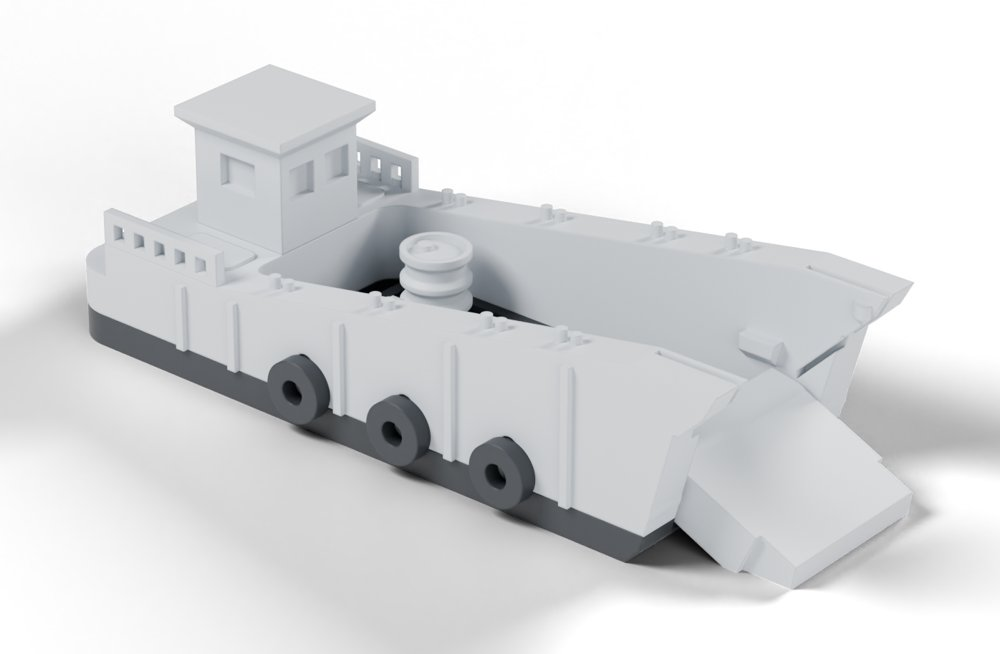
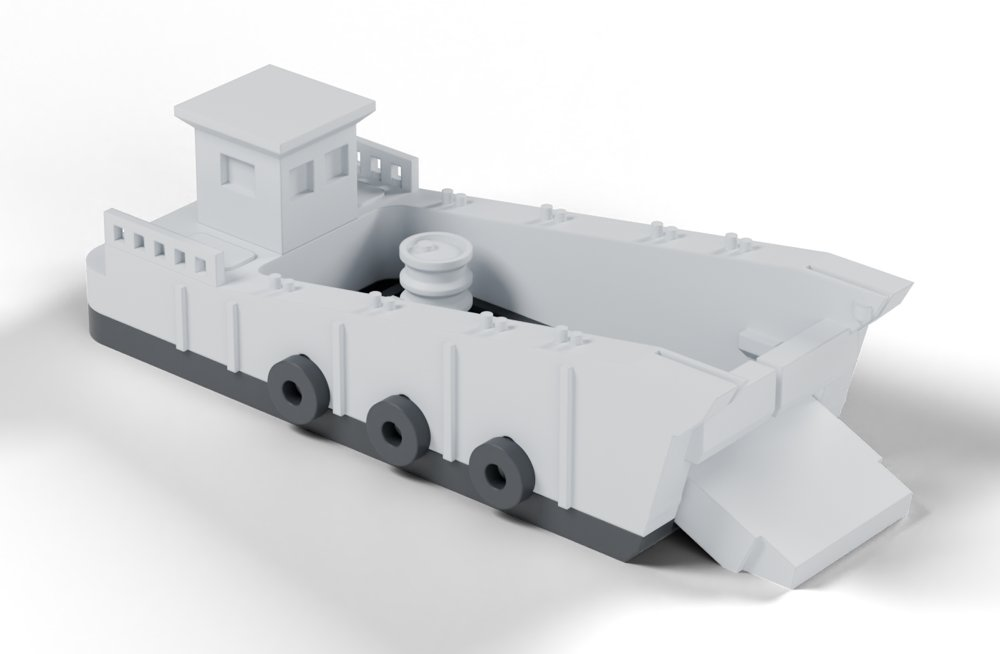
組裝教學:每頁加回艦艇列表、全部艦艇按鈕、其他艦艇快速切換;9 艘圖片更新為最新模型

Changed region(s): [[0.899, 0.7034, 1.0, 0.8257], [0.744, 0.5199, 0.868, 0.581]]

diff --git a/pgg625/index.html b/pgg625/index.html
@@ -8,6 +8,10 @@ main{max-width:720px;margin:0 auto;padding:16px}h1{margin:8px 0 0;font-size:30px
 .step img{width:100%;display:block}.tip{background:#fff;border-left:4px solid var(--gold);border-radius:8px;padding:10px 14px;margin:14px 0}
 .warn{background:#fff;border-radius:12px;padding:12px 16px;margin:18px 0}.warn h3{margin:0 0 6px;font-size:16px;color:#a8322a}.warn li{margin:2px 0}
 .grid{display:grid;grid-template-columns:repeat(auto-fill,minmax(150px,1fr));gap:12px}.grid a{display:block;background:#fff;border-radius:10px;padding:8px;text-decoration:none;color:var(--ink);text-align:center}
-.grid img{width:100%}.grid b{display:block;font-size:17px}footer{color:var(--mut);font-size:13px;text-align:center;padding:24px 16px}a{color:var(--navy2)}</style></head><body>
-<header><a href=".././"><img src="../img/logo.png" alt="千一工坊"></a><b>Q 版艦艇圖鑑・組裝教學</b></header><main><h1>PGG-625</h1><p class="sub">安江艦・巡邏艦・零件 9 件</p><img class="hero" src="../img/pgg625_hero.jpg" alt="安江艦"><div class="tip">組裝順序：照 A → B → C 袋依序拆開。零件對準卡榫，輕壓到「喀」一聲就固定了，不需要膠水或工具。</div><div class="step"><h2><span>01</span>A 袋｜船體壓上紅色艦底</h2><img src="../img/pgg625_step1.jpg" alt="A 袋｜船體壓上紅色艦底" loading="lazy"></div><div class="step"><h2><span>02</span>B 袋｜插上 4 支定位銷，上層結構壓上</h2><img src="../img/pgg625_step2.jpg" alt="B 袋｜插上 4 支定位銷，上層結構壓上" loading="lazy"></div><div class="step"><h2><span>03</span>C 袋｜駕駛台（含主桅）卡上</h2><img src="../img/pgg625_step3.jpg" alt="C 袋｜駕駛台（含主桅）卡上" loading="lazy"></div><div class="warn"><h3>注意事項</h3><ul><li>收藏模型・非玩具・14 歲以上</li><li>含小零件，請勿讓幼兒接觸，以免誤食</li><li>細件易斷，組裝時請輕壓，不要硬扳</li><li>PLA 怕熱，勿放高溫車內或陽光直射（超過 50°C 會變形）</li><li>3D 列印手工製品，表面細微層紋屬正常現象</li><li>非官方商品，與中華民國海軍無關</li></ul></div></main>
+.grid img{width:100%}.grid b{display:block;font-size:17px}
+.back{display:inline-flex;align-items:center;gap:6px;background:#fff;color:var(--navy);border:1.5px solid var(--navy);border-radius:999px;padding:8px 16px;font-size:16px;font-weight:600;text-decoration:none;margin:4px 0 8px}
+header .hb{margin-left:auto;color:#fff;border:1px solid #ffffff66;border-radius:999px;padding:6px 12px;font-size:14px;text-decoration:none;white-space:nowrap}
+.others h3{margin:22px 0 8px;font-size:17px}.chips{display:flex;flex-wrap:wrap;gap:8px}.chips a{background:#fff;border-radius:999px;padding:8px 14px;text-decoration:none;color:var(--ink);font-size:15px;box-shadow:0 1px 3px #0001}.chips a b{color:var(--navy2);margin-right:4px}
+footer{color:var(--mut);font-size:13px;text-align:center;padding:24px 16px}a{color:var(--navy2)}</style></head><body>
+<header><a href=".././"><img src="../img/logo.png" alt="千一工坊"></a><b>Q 版艦艇圖鑑・組裝教學</b><a class="hb" href="../">☰ 全部艦艇</a></header><main><a class="back" href="../">← 回艦艇列表</a><h1>PGG-625</h1><p class="sub">安江艦・巡邏艦・零件 9 件</p><img class="hero" src="../img/pgg625_hero.jpg" alt="安江艦"><div class="tip">組裝順序：照 A → B → C 袋依序拆開。零件對準卡榫，輕壓到「喀」一聲就固定了，不需要膠水或工具。</div><div class="step"><h2><span>01</span>A 袋｜船體壓上紅色艦底</h2><img src="../img/pgg625_step1.jpg" alt="A 袋｜船體壓上紅色艦底" loading="lazy"></div><div class="step"><h2><span>02</span>B 袋｜插上 4 支定位銷，上層結構壓上</h2><img src="../img/pgg625_step2.jpg" alt="B 袋｜插上 4 支定位銷，上層結構壓上" loading="lazy"></div><div class="step"><h2><span>03</span>C 袋｜駕駛台（含主桅）卡上</h2><img src="../img/pgg625_step3.jpg" alt="C 袋｜駕駛台（含主桅）卡上" loading="lazy"></div><div class="warn"><h3>注意事項</h3><ul><li>收藏模型・非玩具・14 歲以上</li><li>含小零件，請勿讓幼兒接觸，以免誤食</li><li>細件易斷，組裝時請輕壓，不要硬扳</li><li>PLA 怕熱，勿放高溫車內或陽光直射（超過 50°C 會變形）</li><li>3D 列印手工製品，表面細微層紋屬正常現象</li><li>非官方商品，與中華民國海軍無關</li></ul></div><div class="others"><h3>還有買其他艦艇？直接切換</h3><div class="chips"><a href="../lcm/"><b>LCM</b>機械化登陸艇</a><a href="../lcu/"><b>LCU</b>通用登陸艇</a><a href="../aoe530/"><b>AOE-530</b>武夷艦</a><a href="../aoe532/"><b>AOE-532</b>磐石艦</a><a href="../pfg1101/"><b>PFG-1101</b>成功艦</a><a href="../pfg1206/"><b>PFG-1206</b>迪化艦</a><a href="../lcc1/"><b>LCC-1</b>高雄艦</a><a href="../lst231/"><b>LST-231</b>中業艦</a></div></div><p><a class="back" href="../">← 回艦艇列表</a></p></main>
 <footer>零件有缺或斷掉，拍照私訊 IG <a href="https://www.instagram.com/qianyi.minis/">@qianyi.minis</a>，免費補寄<br>© 千一工坊 QIANYI MINIS</footer></body></html>

diff --git a/aoe530/index.html b/aoe530/index.html
@@ -8,6 +8,10 @@ main{max-width:720px;margin:0 auto;padding:16px}h1{margin:8px 0 0;font-size:30px
 .step img{width:100%;display:block}.tip{background:#fff;border-left:4px solid var(--gold);border-radius:8px;padding:10px 14px;margin:14px 0}
 .warn{background:#fff;border-radius:12px;padding:12px 16px;margin:18px 0}.warn h3{margin:0 0 6px;font-size:16px;color:#a8322a}.warn li{margin:2px 0}
 .grid{display:grid;grid-template-columns:repeat(auto-fill,minmax(150px,1fr));gap:12px}.grid a{display:block;background:#fff;border-radius:10px;padding:8px;text-decoration:none;color:var(--ink);text-align:center}
-.grid img{width:100%}.grid b{display:block;font-size:17px}footer{color:var(--mut);font-size:13px;text-align:center;padding:24px 16px}a{color:var(--navy2)}</style></head><body>
-<header><a href=".././"><img src="../img/logo.png" alt="千一工坊"></a><b>Q 版艦艇圖鑑・組裝教學</b></header><main><h1>AOE-530</h1><p class="sub">武夷艦・戰鬥支援艦・零件 9 件</p><img class="hero" src="../img/aoe530_hero.jpg" alt="武夷艦"><div class="tip">組裝順序：照 A → B → C 袋依序拆開。零件對準卡榫，輕壓到「喀」一聲就固定了，不需要膠水或工具。</div><div class="step"><h2><span>01</span>A 袋｜船體壓上船底</h2><img src="../img/aoe530_step1.jpg" alt="A 袋｜船體壓上船底" loading="lazy"></div><div class="step"><h2><span>02</span>B 袋｜艦橋、煙囪卡上</h2><img src="../img/aoe530_step2.jpg" alt="B 袋｜艦橋、煙囪卡上" loading="lazy"></div><div class="step"><h2><span>03</span>C 袋｜補給門架（含油管）、桅杆裝上</h2><img src="../img/aoe530_step3.jpg" alt="C 袋｜補給門架（含油管）、桅杆裝上" loading="lazy"></div><div class="warn"><h3>注意事項</h3><ul><li>收藏模型・非玩具・14 歲以上</li><li>含小零件，請勿讓幼兒接觸，以免誤食</li><li>細件易斷，組裝時請輕壓，不要硬扳</li><li>PLA 怕熱，勿放高溫車內或陽光直射（超過 50°C 會變形）</li><li>3D 列印手工製品，表面細微層紋屬正常現象</li><li>非官方商品，與中華民國海軍無關</li></ul></div></main>
+.grid img{width:100%}.grid b{display:block;font-size:17px}
+.back{display:inline-flex;align-items:center;gap:6px;background:#fff;color:var(--navy);border:1.5px solid var(--navy);border-radius:999px;padding:8px 16px;font-size:16px;font-weight:600;text-decoration:none;margin:4px 0 8px}
+header .hb{margin-left:auto;color:#fff;border:1px solid #ffffff66;border-radius:999px;padding:6px 12px;font-size:14px;text-decoration:none;white-space:nowrap}
+.others h3{margin:22px 0 8px;font-size:17px}.chips{display:flex;flex-wrap:wrap;gap:8px}.chips a{background:#fff;border-radius:999px;padding:8px 14px;text-decoration:none;color:var(--ink);font-size:15px;box-shadow:0 1px 3px #0001}.chips a b{color:var(--navy2);margin-right:4px}
+footer{color:var(--mut);font-size:13px;text-align:center;padding:24px 16px}a{color:var(--navy2)}</style></head><body>
+<header><a href=".././"><img src="../img/logo.png" alt="千一工坊"></a><b>Q 版艦艇圖鑑・組裝教學</b><a class="hb" href="../">☰ 全部艦艇</a></header><main><a class="back" href="../">← 回艦艇列表</a><h1>AOE-530</h1><p class="sub">武夷艦・戰鬥支援艦・零件 9 件</p><img class="hero" src="../img/aoe530_hero.jpg" alt="武夷艦"><div class="tip">組裝順序：照 A → B → C 袋依序拆開。零件對準卡榫，輕壓到「喀」一聲就固定了，不需要膠水或工具。</div><div class="step"><h2><span>01</span>A 袋｜船體壓上船底</h2><img src="../img/aoe530_step1.jpg" alt="A 袋｜船體壓上船底" loading="lazy"></div><div class="step"><h2><span>02</span>B 袋｜艦橋、煙囪卡上</h2><img src="../img/aoe530_step2.jpg" alt="B 袋｜艦橋、煙囪卡上" loading="lazy"></div><div class="step"><h2><span>03</span>C 袋｜補給門架（含油管）、桅杆裝上</h2><img src="../img/aoe530_step3.jpg" alt="C 袋｜補給門架（含油管）、桅杆裝上" loading="lazy"></div><div class="warn"><h3>注意事項</h3><ul><li>收藏模型・非玩具・14 歲以上</li><li>含小零件，請勿讓幼兒接觸，以免誤食</li><li>細件易斷，組裝時請輕壓，不要硬扳</li><li>PLA 怕熱，勿放高溫車內或陽光直射（超過 50°C 會變形）</li><li>3D 列印手工製品，表面細微層紋屬正常現象</li><li>非官方商品，與中華民國海軍無關</li></ul></div><div class="others"><h3>還有買其他艦艇？直接切換</h3><div class="chips"><a href="../lcm/"><b>LCM</b>機械化登陸艇</a><a href="../lcu/"><b>LCU</b>通用登陸艇</a><a href="../aoe532/"><b>AOE-532</b>磐石艦</a><a href="../pfg1101/"><b>PFG-1101</b>成功艦</a><a href="../pfg1206/"><b>PFG-1206</b>迪化艦</a><a href="../pgg625/"><b>PGG-625</b>安江艦</a><a href="../lcc1/"><b>LCC-1</b>高雄艦</a><a href="../lst231/"><b>LST-231</b>中業艦</a></div></div><p><a class="back" href="../">← 回艦艇列表</a></p></main>
 <footer>零件有缺或斷掉，拍照私訊 IG <a href="https://www.instagram.com/qianyi.minis/">@qianyi.minis</a>，免費補寄<br>© 千一工坊 QIANYI MINIS</footer></body></html>

diff --git a/pfg1101/index.html b/pfg1101/index.html
@@ -8,6 +8,10 @@ main{max-width:720px;margin:0 auto;padding:16px}h1{margin:8px 0 0;font-size:30px
 .step img{width:100%;display:block}.tip{background:#fff;border-left:4px solid var(--gold);border-radius:8px;padding:10px 14px;margin:14px 0}
 .warn{background:#fff;border-radius:12px;padding:12px 16px;margin:18px 0}.warn h3{margin:0 0 6px;font-size:16px;color:#a8322a}.warn li{margin:2px 0}
 .grid{display:grid;grid-template-columns:repeat(auto-fill,minmax(150px,1fr));gap:12px}.grid a{display:block;background:#fff;border-radius:10px;padding:8px;text-decoration:none;color:var(--ink);text-align:center}
-.grid img{width:100%}.grid b{display:block;font-size:17px}footer{color:var(--mut);font-size:13px;text-align:center;padding:24px 16px}a{color:var(--navy2)}</style></head><body>
-<header><a href=".././"><img src="../img/logo.png" alt="千一工坊"></a><b>Q 版艦艇圖鑑・組裝教學</b></header><main><h1>PFG-1101</h1><p class="sub">成功艦・巡防艦・零件 6 件</p><img class="hero" src="../img/pfg1101_hero.jpg" alt="成功艦"><div class="tip">組裝順序：照 A → B → C 袋依序拆開。零件對準卡榫，輕壓到「喀」一聲就固定了，不需要膠水或工具。</div><div class="step"><h2><span>01</span>A 袋｜船體壓上紅色艦底</h2><img src="../img/pfg1101_step1.jpg" alt="A 袋｜船體壓上紅色艦底" loading="lazy"></div><div class="step"><h2><span>02</span>B 袋｜駕駛台卡上</h2><img src="../img/pfg1101_step2.jpg" alt="B 袋｜駕駛台卡上" loading="lazy"></div><div class="step"><h2><span>03</span>C 袋｜Mk13 飛彈架、主桅、前桅裝上</h2><img src="../img/pfg1101_step3.jpg" alt="C 袋｜Mk13 飛彈架、主桅、前桅裝上" loading="lazy"></div><div class="warn"><h3>注意事項</h3><ul><li>收藏模型・非玩具・14 歲以上</li><li>含小零件，請勿讓幼兒接觸，以免誤食</li><li>細件易斷，組裝時請輕壓，不要硬扳</li><li>PLA 怕熱，勿放高溫車內或陽光直射（超過 50°C 會變形）</li><li>3D 列印手工製品，表面細微層紋屬正常現象</li><li>非官方商品，與中華民國海軍無關</li></ul></div></main>
+.grid img{width:100%}.grid b{display:block;font-size:17px}
+.back{display:inline-flex;align-items:center;gap:6px;background:#fff;color:var(--navy);border:1.5px solid var(--navy);border-radius:999px;padding:8px 16px;font-size:16px;font-weight:600;text-decoration:none;margin:4px 0 8px}
+header .hb{margin-left:auto;color:#fff;border:1px solid #ffffff66;border-radius:999px;padding:6px 12px;font-size:14px;text-decoration:none;white-space:nowrap}
+.others h3{margin:22px 0 8px;font-size:17px}.chips{display:flex;flex-wrap:wrap;gap:8px}.chips a{background:#fff;border-radius:999px;padding:8px 14px;text-decoration:none;color:var(--ink);font-size:15px;box-shadow:0 1px 3px #0001}.chips a b{color:var(--navy2);margin-right:4px}
+footer{color:var(--mut);font-size:13px;text-align:center;padding:24px 16px}a{color:var(--navy2)}</style></head><body>
+<header><a href=".././"><img src="../img/logo.png" alt="千一工坊"></a><b>Q 版艦艇圖鑑・組裝教學</b><a class="hb" href="../">☰ 全部艦艇</a></header><main><a class="back" href="../">← 回艦艇列表</a><h1>PFG-1101</h1><p class="sub">成功艦・巡防艦・零件 7 件</p><img class="hero" src="../img/pfg1101_hero.jpg" alt="成功艦"><div class="tip">組裝順序：照 A → B → C 袋依序拆開。零件對準卡榫，輕壓到「喀」一聲就固定了，不需要膠水或工具。</div><div class="step"><h2><span>01</span>A 袋｜船體壓上紅色艦底</h2><img src="../img/pfg1101_step1.jpg" alt="A 袋｜船體壓上紅色艦底" loading="lazy"></div><div class="step"><h2><span>02</span>B 袋｜駕駛台卡上</h2><img src="../img/pfg1101_step2.jpg" alt="B 袋｜駕駛台卡上" loading="lazy"></div><div class="step"><h2><span>03</span>C 袋｜Mk13 飛彈架、主桅、前桅裝上</h2><img src="../img/pfg1101_step3.jpg" alt="C 袋｜Mk13 飛彈架、主桅、前桅裝上" loading="lazy"></div><div class="warn"><h3>注意事項</h3><ul><li>收藏模型・非玩具・14 歲以上</li><li>含小零件，請勿讓幼兒接觸，以免誤食</li><li>細件易斷，組裝時請輕壓，不要硬扳</li><li>PLA 怕熱，勿放高溫車內或陽光直射（超過 50°C 會變形）</li><li>3D 列印手工製品，表面細微層紋屬正常現象</li><li>非官方商品，與中華民國海軍無關</li></ul></div><div class="others"><h3>還有買其他艦艇？直接切換</h3><div class="chips"><a href="../lcm/"><b>LCM</b>機械化登陸艇</a><a href="../lcu/"><b>LCU</b>通用登陸艇</a><a href="../aoe530/"><b>AOE-530</b>武夷艦</a><a href="../aoe532/"><b>AOE-532</b>磐石艦</a><a href="../pfg1206/"><b>PFG-1206</b>迪化艦</a><a href="../pgg625/"><b>PGG-625</b>安江艦</a><a href="../lcc1/"><b>LCC-1</b>高雄艦</a><a href="../lst231/"><b>LST-231</b>中業艦</a></div></div><p><a class="back" href="../">← 回艦艇列表</a></p></main>
 <footer>零件有缺或斷掉，拍照私訊 IG <a href="https://www.instagram.com/qianyi.minis/">@qianyi.minis</a>，免費補寄<br>© 千一工坊 QIANYI MINIS</footer></body></html>

diff --git a/aoe532/index.html b/aoe532/index.html
@@ -8,6 +8,10 @@ main{max-width:720px;margin:0 auto;padding:16px}h1{margin:8px 0 0;font-size:30px
 .step img{width:100%;display:block}.tip{background:#fff;border-left:4px solid var(--gold);border-radius:8px;padding:10px 14px;margin:14px 0}
 .warn{background:#fff;border-radius:12px;padding:12px 16px;margin:18px 0}.warn h3{margin:0 0 6px;font-size:16px;color:#a8322a}.warn li{margin:2px 0}
 .grid{display:grid;grid-template-columns:repeat(auto-fill,minmax(150px,1fr));gap:12px}.grid a{display:block;background:#fff;border-radius:10px;padding:8px;text-decoration:none;color:var(--ink);text-align:center}
-.grid img{width:100%}.grid b{display:block;font-size:17px}footer{color:var(--mut);font-size:13px;text-align:center;padding:24px 16px}a{color:var(--navy2)}</style></head><body>
-<header><a href=".././"><img src="../img/logo.png" alt="千一工坊"></a><b>Q 版艦艇圖鑑・組裝教學</b></header><main><h1>AOE-532</h1><p class="sub">磐石艦・戰鬥支援艦・零件 8 件</p><img class="hero" src="../img/aoe532_hero.jpg" alt="磐石艦"><div class="tip">組裝順序：照 A → B → C 袋依序拆開。零件對準卡榫，輕壓到「喀」一聲就固定了，不需要膠水或工具。</div><div class="step"><h2><span>01</span>A 袋｜船體壓上船底</h2><img src="../img/aoe532_step1.jpg" alt="A 袋｜船體壓上船底" loading="lazy"></div><div class="step"><h2><span>02</span>B 袋｜上層結構卡上</h2><img src="../img/aoe532_step2.jpg" alt="B 袋｜上層結構卡上" loading="lazy"></div><div class="step"><h2><span>03</span>C 袋｜油管、補給門架裝上</h2><img src="../img/aoe532_step3.jpg" alt="C 袋｜油管、補給門架裝上" loading="lazy"></div><div class="warn"><h3>注意事項</h3><ul><li>收藏模型・非玩具・14 歲以上</li><li>含小零件，請勿讓幼兒接觸，以免誤食</li><li>細件易斷，組裝時請輕壓，不要硬扳</li><li>PLA 怕熱，勿放高溫車內或陽光直射（超過 50°C 會變形）</li><li>3D 列印手工製品，表面細微層紋屬正常現象</li><li>非官方商品，與中華民國海軍無關</li></ul></div></main>
+.grid img{width:100%}.grid b{display:block;font-size:17px}
+.back{display:inline-flex;align-items:center;gap:6px;background:#fff;color:var(--navy);border:1.5px solid var(--navy);border-radius:999px;padding:8px 16px;font-size:16px;font-weight:600;text-decoration:none;margin:4px 0 8px}
+header .hb{margin-left:auto;color:#fff;border:1px solid #ffffff66;border-radius:999px;padding:6px 12px;font-size:14px;text-decoration:none;white-space:nowrap}
+.others h3{margin:22px 0 8px;font-size:17px}.chips{display:flex;flex-wrap:wrap;gap:8px}.chips a{background:#fff;border-radius:999px;padding:8px 14px;text-decoration:none;color:var(--ink);font-size:15px;box-shadow:0 1px 3px #0001}.chips a b{color:var(--navy2);margin-right:4px}
+footer{color:var(--mut);font-size:13px;text-align:center;padding:24px 16px}a{color:var(--navy2)}</style></head><body>
+<header><a href=".././"><img src="../img/logo.png" alt="千一工坊"></a><b>Q 版艦艇圖鑑・組裝教學</b><a class="hb" href="../">☰ 全部艦艇</a></header><main><a class="back" href="../">← 回艦艇列表</a><h1>AOE-532</h1><p class="sub">磐石艦・戰鬥支援艦・零件 8 件</p><img class="hero" src="../img/aoe532_hero.jpg" alt="磐石艦"><div class="tip">組裝順序：照 A → B → C 袋依序拆開。零件對準卡榫，輕壓到「喀」一聲就固定了，不需要膠水或工具。</div><div class="step"><h2><span>01</span>A 袋｜船體壓上船底</h2><img src="../img/aoe532_step1.jpg" alt="A 袋｜船體壓上船底" loading="lazy"></div><div class="step"><h2><span>02</span>B 袋｜上層結構卡上</h2><img src="../img/aoe532_step2.jpg" alt="B 袋｜上層結構卡上" loading="lazy"></div><div class="step"><h2><span>03</span>C 袋｜油管、補給門架裝上</h2><img src="../img/aoe532_step3.jpg" alt="C 袋｜油管、補給門架裝上" loading="lazy"></div><div class="warn"><h3>注意事項</h3><ul><li>收藏模型・非玩具・14 歲以上</li><li>含小零件，請勿讓幼兒接觸，以免誤食</li><li>細件易斷，組裝時請輕壓，不要硬扳</li><li>PLA 怕熱，勿放高溫車內或陽光直射（超過 50°C 會變形）</li><li>3D 列印手工製品，表面細微層紋屬正常現象</li><li>非官方商品，與中華民國海軍無關</li></ul></div><div class="others"><h3>還有買其他艦艇？直接切換</h3><div class="chips"><a href="../lcm/"><b>LCM</b>機械化登陸艇</a><a href="../lcu/"><b>LCU</b>通用登陸艇</a><a href="../aoe530/"><b>AOE-530</b>武夷艦</a><a href="../pfg1101/"><b>PFG-1101</b>成功艦</a><a href="../pfg1206/"><b>PFG-1206</b>迪化艦</a><a href="../pgg625/"><b>PGG-625</b>安江艦</a><a href="../lcc1/"><b>LCC-1</b>高雄艦</a><a href="../lst231/"><b>LST-231</b>中業艦</a></div></div><p><a class="back" href="../">← 回艦艇列表</a></p></main>
 <footer>零件有缺或斷掉，拍照私訊 IG <a href="https://www.instagram.com/qianyi.minis/">@qianyi.minis</a>，免費補寄<br>© 千一工坊 QIANYI MINIS</footer></body></html>

diff --git a/lcm/index.html b/lcm/index.html
@@ -8,6 +8,10 @@ main{max-width:720px;margin:0 auto;padding:16px}h1{margin:8px 0 0;font-size:30px
 .step img{width:100%;display:block}.tip{background:#fff;border-left:4px solid var(--gold);border-radius:8px;padding:10px 14px;margin:14px 0}
 .warn{background:#fff;border-radius:12px;padding:12px 16px;margin:18px 0}.warn h3{margin:0 0 6px;font-size:16px;color:#a8322a}.warn li{margin:2px 0}
 .grid{display:grid;grid-template-columns:repeat(auto-fill,minmax(150px,1fr));gap:12px}.grid a{display:block;background:#fff;border-radius:10px;padding:8px;text-decoration:none;color:var(--ink);text-align:center}
-.grid img{width:100%}.grid b{display:block;font-size:17px}footer{color:var(--mut);font-size:13px;text-align:center;padding:24px 16px}a{color:var(--navy2)}</style></head><body>
-<header><a href=".././"><img src="../img/logo.png" alt="千一工坊"></a><b>Q 版艦艇圖鑑・組裝教學</b></header><main><h1>LCM</h1><p class="sub">機械化登陸艇・登陸艇・零件 13 件</p><img class="hero" src="../img/lcm_hero.jpg" alt="機械化登陸艇"><div class="tip">組裝順序：照 A → B → C 袋依序拆開。輕推艏門往下，跳板就會放下。</div><div class="step"><h2><span>01</span>A 袋｜船體壓上船底</h2><img src="../img/lcm_step1.jpg" alt="A 袋｜船體壓上船底" loading="lazy"></div><div class="step"><h2><span>02</span>B 袋｜駕駛台卡上船尾</h2><img src="../img/lcm_step2.jpg" alt="B 袋｜駕駛台卡上船尾" loading="lazy"></div><div class="step"><h2><span>03</span>C 袋｜輪胎、艏門裝上，油桶彈箱插上甲板</h2><img src="../img/lcm_step3.jpg" alt="C 袋｜輪胎、艏門裝上，油桶彈箱插上甲板" loading="lazy"></div><div class="warn"><h3>注意事項</h3><ul><li>收藏模型・非玩具・14 歲以上</li><li>含小零件，請勿讓幼兒接觸，以免誤食</li><li>細件易斷，組裝時請輕壓，不要硬扳</li><li>PLA 怕熱，勿放高溫車內或陽光直射（超過 50°C 會變形）</li><li>3D 列印手工製品，表面細微層紋屬正常現象</li><li>非官方商品，與中華民國海軍無關</li></ul></div></main>
+.grid img{width:100%}.grid b{display:block;font-size:17px}
+.back{display:inline-flex;align-items:center;gap:6px;background:#fff;color:var(--navy);border:1.5px solid var(--navy);border-radius:999px;padding:8px 16px;font-size:16px;font-weight:600;text-decoration:none;margin:4px 0 8px}
+header .hb{margin-left:auto;color:#fff;border:1px solid #ffffff66;border-radius:999px;padding:6px 12px;font-size:14px;text-decoration:none;white-space:nowrap}
+.others h3{margin:22px 0 8px;font-size:17px}.chips{display:flex;flex-wrap:wrap;gap:8px}.chips a{background:#fff;border-radius:999px;padding:8px 14px;text-decoration:none;color:var(--ink);font-size:15px;box-shadow:0 1px 3px #0001}.chips a b{color:var(--navy2);margin-right:4px}
+footer{color:var(--mut);font-size:13px;text-align:center;padding:24px 16px}a{color:var(--navy2)}</style></head><body>
+<header><a href=".././"><img src="../img/logo.png" alt="千一工坊"></a><b>Q 版艦艇圖鑑・組裝教學</b><a class="hb" href="../">☰ 全部艦艇</a></header><main><a class="back" href="../">← 回艦艇列表</a><h1>LCM</h1><p class="sub">機械化登陸艇・登陸艇・零件 13 件</p><img class="hero" src="../img/lcm_hero.jpg" alt="機械化登陸艇"><div class="tip">組裝順序：照 A → B → C 袋依序拆開。輕推艏門往下，跳板就會放下。</div><div class="step"><h2><span>01</span>A 袋｜船體壓上船底</h2><img src="../img/lcm_step1.jpg" alt="A 袋｜船體壓上船底" loading="lazy"></div><div class="step"><h2><span>02</span>B 袋｜駕駛台卡上船尾</h2><img src="../img/lcm_step2.jpg" alt="B 袋｜駕駛台卡上船尾" loading="lazy"></div><div class="step"><h2><span>03</span>C 袋｜輪胎、艏門裝上，油桶彈箱插上甲板</h2><img src="../img/lcm_step3.jpg" alt="C 袋｜輪胎、艏門裝上，油桶彈箱插上甲板" loading="lazy"></div><div class="warn"><h3>注意事項</h3><ul><li>收藏模型・非玩具・14 歲以上</li><li>含小零件，請勿讓幼兒接觸，以免誤食</li><li>細件易斷，組裝時請輕壓，不要硬扳</li><li>PLA 怕熱，勿放高溫車內或陽光直射（超過 50°C 會變形）</li><li>3D 列印手工製品，表面細微層紋屬正常現象</li><li>非官方商品，與中華民國海軍無關</li></ul></div><div class="others"><h3>還有買其他艦艇？直接切換</h3><div class="chips"><a href="../lcu/"><b>LCU</b>通用登陸艇</a><a href="../aoe530/"><b>AOE-530</b>武夷艦</a><a href="../aoe532/"><b>AOE-532</b>磐石艦</a><a href="../pfg1101/"><b>PFG-1101</b>成功艦</a><a href="../pfg1206/"><b>PFG-1206</b>迪化艦</a><a href="../pgg625/"><b>PGG-625</b>安江艦</a><a href="../lcc1/"><b>LCC-1</b>高雄艦</a><a href="../lst231/"><b>LST-231</b>中業艦</a></div></div><p><a class="back" href="../">← 回艦艇列表</a></p></main>
 <footer>零件有缺或斷掉，拍照私訊 IG <a href="https://www.instagram.com/qianyi.minis/">@qianyi.minis</a>，免費補寄<br>© 千一工坊 QIANYI MINIS</footer></body></html>

diff --git a/pfg1206/index.html b/pfg1206/index.html
@@ -8,6 +8,10 @@ main{max-width:720px;margin:0 auto;padding:16px}h1{margin:8px 0 0;font-size:30px
 .step img{width:100%;display:block}.tip{background:#fff;border-left:4px solid var(--gold);border-radius:8px;padding:10px 14px;margin:14px 0}
 .warn{background:#fff;border-radius:12px;padding:12px 16px;margin:18px 0}.warn h3{margin:0 0 6px;font-size:16px;color:#a8322a}.warn li{margin:2px 0}
 .grid{display:grid;grid-template-columns:repeat(auto-fill,minmax(150px,1fr));gap:12px}.grid a{display:block;background:#fff;border-radius:10px;padding:8px;text-decoration:none;color:var(--ink);text-align:center}
-.grid img{width:100%}.grid b{display:block;font-size:17px}footer{color:var(--mut);font-size:13px;text-align:center;padding:24px 16px}a{color:var(--navy2)}</style></head><body>
-<header><a href=".././"><img src="../img/logo.png" alt="千一工坊"></a><b>Q 版艦艇圖鑑・組裝教學</b></header><main><h1>PFG-1206</h1><p class="sub">迪化艦・巡防艦・零件 6 件</p><img class="hero" src="../img/pfg1206_hero.jpg" alt="迪化艦"><div class="tip">組裝順序：照 A → B → C 袋依序拆開。零件對準卡榫，輕壓到「喀」一聲就固定了，不需要膠水或工具。</div><div class="step"><h2><span>01</span>A 袋｜船體壓上紅色艦底</h2><img src="../img/pfg1206_step1.jpg" alt="A 袋｜船體壓上紅色艦底" loading="lazy"></div><div class="step"><h2><span>02</span>B 袋｜上層結構卡上</h2><img src="../img/pfg1206_step2.jpg" alt="B 袋｜上層結構卡上" loading="lazy"></div><div class="step"><h2><span>03</span>C 袋｜桅頂、雷達裝上</h2><img src="../img/pfg1206_step3.jpg" alt="C 袋｜桅頂、雷達裝上" loading="lazy"></div><div class="warn"><h3>注意事項</h3><ul><li>收藏模型・非玩具・14 歲以上</li><li>含小零件，請勿讓幼兒接觸，以免誤食</li><li>細件易斷，組裝時請輕壓，不要硬扳</li><li>PLA 怕熱，勿放高溫車內或陽光直射（超過 50°C 會變形）</li><li>3D 列印手工製品，表面細微層紋屬正常現象</li><li>非官方商品，與中華民國海軍無關</li></ul></div></main>
+.grid img{width:100%}.grid b{display:block;font-size:17px}
+.back{display:inline-flex;align-items:center;gap:6px;background:#fff;color:var(--navy);border:1.5px solid var(--navy);border-radius:999px;padding:8px 16px;font-size:16px;font-weight:600;text-decoration:none;margin:4px 0 8px}
+header .hb{margin-left:auto;color:#fff;border:1px solid #ffffff66;border-radius:999px;padding:6px 12px;font-size:14px;text-decoration:none;white-space:nowrap}
+.others h3{margin:22px 0 8px;font-size:17px}.chips{display:flex;flex-wrap:wrap;gap:8px}.chips a{background:#fff;border-radius:999px;padding:8px 14px;text-decoration:none;color:var(--ink);font-size:15px;box-shadow:0 1px 3px #0001}.chips a b{color:var(--navy2);margin-right:4px}
+footer{color:var(--mut);font-size:13px;text-align:center;padding:24px 16px}a{color:var(--navy2)}</style></head><body>
+<header><a href=".././"><img src="../img/logo.png" alt="千一工坊"></a><b>Q 版艦艇圖鑑・組裝教學</b><a class="hb" href="../">☰ 全部艦艇</a></header><main><a class="back" href="../">← 回艦艇列表</a><h1>PFG-1206</h1><p class="sub">迪化艦・巡防艦・零件 6 件</p><img class="hero" src="../img/pfg1206_hero.jpg" alt="迪化艦"><div class="tip">組裝順序：照 A → B → C 袋依序拆開。零件對準卡榫，輕壓到「喀」一聲就固定了，不需要膠水或工具。</div><div class="step"><h2><span>01</span>A 袋｜船體壓上紅色艦底</h2><img src="../img/pfg1206_step1.jpg" alt="A 袋｜船體壓上紅色艦底" loading="lazy"></div><div class="step"><h2><span>02</span>B 袋｜上層結構卡上</h2><img src="../img/pfg1206_step2.jpg" alt="B 袋｜上層結構卡上" loading="lazy"></div><div class="step"><h2><span>03</span>C 袋｜桅頂、雷達裝上</h2><img src="../img/pfg1206_step3.jpg" alt="C 袋｜桅頂、雷達裝上" loading="lazy"></div><div class="warn"><h3>注意事項</h3><ul><li>收藏模型・非玩具・14 歲以上</li><li>含小零件，請勿讓幼兒接觸，以免誤食</li><li>細件易斷，組裝時請輕壓，不要硬扳</li><li>PLA 怕熱，勿放高溫車內或陽光直射（超過 50°C 會變形）</li><li>3D 列印手工製品，表面細微層紋屬正常現象</li><li>非官方商品，與中華民國海軍無關</li></ul></div><div class="others"><h3>還有買其他艦艇？直接切換</h3><div class="chips"><a href="../lcm/"><b>LCM</b>機械化登陸艇</a><a href="../lcu/"><b>LCU</b>通用登陸艇</a><a href="../aoe530/"><b>AOE-530</b>武夷艦</a><a href="../aoe532/"><b>AOE-532</b>磐石艦</a><a href="../pfg1101/"><b>PFG-1101</b>成功艦</a><a href="../pgg625/"><b>PGG-625</b>安江艦</a><a href="../lcc1/"><b>LCC-1</b>高雄艦</a><a href="../lst231/"><b>LST-231</b>中業艦</a></div></div><p><a class="back" href="../">← 回艦艇列表</a></p></main>
 <footer>零件有缺或斷掉，拍照私訊 IG <a href="https://www.instagram.com/qianyi.minis/">@qianyi.minis</a>，免費補寄<br>© 千一工坊 QIANYI MINIS</footer></body></html>

diff --git a/lcu/index.html b/lcu/index.html
@@ -8,6 +8,10 @@ main{max-width:720px;margin:0 auto;padding:16px}h1{margin:8px 0 0;font-size:30px
 .step img{width:100%;display:block}.tip{background:#fff;border-left:4px solid var(--gold);border-radius:8px;padding:10px 14px;margin:14px 0}
 .warn{background:#fff;border-radius:12px;padding:12px 16px;margin:18px 0}.warn h3{margin:0 0 6px;font-size:16px;color:#a8322a}.warn li{margin:2px 0}
 .grid{display:grid;grid-template-columns:repeat(auto-fill,minmax(150px,1fr));gap:12px}.grid a{display:block;background:#fff;border-radius:10px;padding:8px;text-decoration:none;color:var(--ink);text-align:center}
-.grid img{width:100%}.grid b{display:block;font-size:17px}footer{color:var(--mut);font-size:13px;text-align:center;padding:24px 16px}a{color:var(--navy2)}</style></head><body>
-<header><a href=".././"><img src="../img/logo.png" alt="千一工坊"></a><b>Q 版艦艇圖鑑・組裝教學</b></header><main><h1>LCU</h1><p class="sub">通用登陸艇・登陸艇・零件 8 件</p><img class="hero" src="../img/lcu_hero.jpg" alt="通用登陸艇"><div class="tip">組裝順序：照 A → B → C 袋依序拆開。輕推艏門往下，跳板就會放下。</div><div class="step"><h2><span>01</span>A 袋｜船體壓上船底</h2><img src="../img/lcu_step1.jpg" alt="A 袋｜船體壓上船底" loading="lazy"></div><div class="step"><h2><span>02</span>B 袋｜駕駛台卡上船尾</h2><img src="../img/lcu_step2.jpg" alt="B 袋｜駕駛台卡上船尾" loading="lazy"></div><div class="step"><h2><span>03</span>C 袋｜艏門、天線裝上，油桶彈箱插上甲板</h2><img src="../img/lcu_step3.jpg" alt="C 袋｜艏門、天線裝上，油桶彈箱插上甲板" loading="lazy"></div><div class="warn"><h3>注意事項</h3><ul><li>收藏模型・非玩具・14 歲以上</li><li>含小零件，請勿讓幼兒接觸，以免誤食</li><li>細件易斷，組裝時請輕壓，不要硬扳</li><li>PLA 怕熱，勿放高溫車內或陽光直射（超過 50°C 會變形）</li><li>3D 列印手工製品，表面細微層紋屬正常現象</li><li>非官方商品，與中華民國海軍無關</li></ul></div></main>
+.grid img{width:100%}.grid b{display:block;font-size:17px}
+.back{display:inline-flex;align-items:center;gap:6px;background:#fff;color:var(--navy);border:1.5px solid var(--navy);border-radius:999px;padding:8px 16px;font-size:16px;font-weight:600;text-decoration:none;margin:4px 0 8px}
+header .hb{margin-left:auto;color:#fff;border:1px solid #ffffff66;border-radius:999px;padding:6px 12px;font-size:14px;text-decoration:none;white-space:nowrap}
+.others h3{margin:22px 0 8px;font-size:17px}.chips{display:flex;flex-wrap:wrap;gap:8px}.chips a{background:#fff;border-radius:999px;padding:8px 14px;text-decoration:none;color:var(--ink);font-size:15px;box-shadow:0 1px 3px #0001}.chips a b{color:var(--navy2);margin-right:4px}
+footer{color:var(--mut);font-size:13px;text-align:center;padding:24px 16px}a{color:var(--navy2)}</style></head><body>
+<header><a href=".././"><img src="../img/logo.png" alt="千一工坊"></a><b>Q 版艦艇圖鑑・組裝教學</b><a class="hb" href="../">☰ 全部艦艇</a></header><main><a class="back" href="../">← 回艦艇列表</a><h1>LCU</h1><p class="sub">通用登陸艇・登陸艇・零件 8 件</p><img class="hero" src="../img/lcu_hero.jpg" alt="通用登陸艇"><div class="tip">組裝順序：照 A → B → C 袋依序拆開。輕推艏門往下，跳板就會放下。</div><div class="step"><h2><span>01</span>A 袋｜船體壓上船底</h2><img src="../img/lcu_step1.jpg" alt="A 袋｜船體壓上船底" loading="lazy"></div><div class="step"><h2><span>02</span>B 袋｜駕駛台卡上船尾</h2><img src="../img/lcu_step2.jpg" alt="B 袋｜駕駛台卡上船尾" loading="lazy"></div><div class="step"><h2><span>03</span>C 袋｜艏門、天線裝上，油桶彈箱插上甲板</h2><img src="../img/lcu_step3.jpg" alt="C 袋｜艏門、天線裝上，油桶彈箱插上甲板" loading="lazy"></div><div class="warn"><h3>注意事項</h3><ul><li>收藏模型・非玩具・14 歲以上</li><li>含小零件，請勿讓幼兒接觸，以免誤食</li><li>細件易斷，組裝時請輕壓，不要硬扳</li><li>PLA 怕熱，勿放高溫車內或陽光直射（超過 50°C 會變形）</li><li>3D 列印手工製品，表面細微層紋屬正常現象</li><li>非官方商品，與中華民國海軍無關</li></ul></div><div class="others"><h3>還有買其他艦艇？直接切換</h3><div class="chips"><a href="../lcm/"><b>LCM</b>機械化登陸艇</a><a href="../aoe530/"><b>AOE-530</b>武夷艦</a><a href="../aoe532/"><b>AOE-532</b>磐石艦</a><a href="../pfg1101/"><b>PFG-1101</b>成功艦</a><a href="../pfg1206/"><b>PFG-1206</b>迪化艦</a><a href="../pgg625/"><b>PGG-625</b>安江艦</a><a href="../lcc1/"><b>LCC-1</b>高雄艦</a><a href="../lst231/"><b>LST-231</b>中業艦</a></div></div><p><a class="back" href="../">← 回艦艇列表</a></p></main>
 <footer>零件有缺或斷掉，拍照私訊 IG <a href="https://www.instagram.com/qianyi.minis/">@qianyi.minis</a>，免費補寄<br>© 千一工坊 QIANYI MINIS</footer></body></html>

diff --git a/lcc1/index.html b/lcc1/index.html
@@ -8,6 +8,10 @@ main{max-width:720px;margin:0 auto;padding:16px}h1{margin:8px 0 0;font-size:30px
 .step img{width:100%;display:block}.tip{background:#fff;border-left:4px solid var(--gold);border-radius:8px;padding:10px 14px;margin:14px 0}
 .warn{background:#fff;border-radius:12px;padding:12px 16px;margin:18px 0}.warn h3{margin:0 0 6px;font-size:16px;color:#a8322a}.warn li{margin:2px 0}
 .grid{display:grid;grid-template-columns:repeat(auto-fill,minmax(150px,1fr));gap:12px}.grid a{display:block;background:#fff;border-radius:10px;padding:8px;text-decoration:none;color:var(--ink);text-align:center}
-.grid img{width:100%}.grid b{display:block;font-size:17px}footer{color:var(--mut);font-size:13px;text-align:center;padding:24px 16px}a{color:var(--navy2)}</style></head><body>
-<header><a href=".././"><img src="../img/logo.png" alt="千一工坊"></a><b>Q 版艦艇圖鑑・組裝教學</b></header><main><h1>LCC-1</h1><p class="sub">高雄艦・兩棲指揮艦・零件 9 件</p><img class="hero" src="../img/lcc1_hero.jpg" alt="高雄艦"><div class="tip">組裝順序：照 A → B → C 袋依序拆開。輕推艏門往下，跳板就會放下。</div><div class="step"><h2><span>01</span>A 袋｜貨櫃、雷達塔裝上</h2><img src="../img/lcc1_step1.jpg" alt="A 袋｜貨櫃、雷達塔裝上" loading="lazy"></div><div class="step"><h2><span>02</span>B 袋｜上層結構卡上</h2><img src="../img/lcc1_step2.jpg" alt="B 袋｜上層結構卡上" loading="lazy"></div><div class="step"><h2><span>03</span>C 袋｜小艇、前桅裝上</h2><img src="../img/lcc1_step3.jpg" alt="C 袋｜小艇、前桅裝上" loading="lazy"></div><div class="warn"><h3>注意事項</h3><ul><li>收藏模型・非玩具・14 歲以上</li><li>含小零件，請勿讓幼兒接觸，以免誤食</li><li>細件易斷，組裝時請輕壓，不要硬扳</li><li>PLA 怕熱，勿放高溫車內或陽光直射（超過 50°C 會變形）</li><li>3D 列印手工製品，表面細微層紋屬正常現象</li><li>非官方商品，與中華民國海軍無關</li></ul></div></main>
+.grid img{width:100%}.grid b{display:block;font-size:17px}
+.back{display:inline-flex;align-items:center;gap:6px;background:#fff;color:var(--navy);border:1.5px solid var(--navy);border-radius:999px;padding:8px 16px;font-size:16px;font-weight:600;text-decoration:none;margin:4px 0 8px}
+header .hb{margin-left:auto;color:#fff;border:1px solid #ffffff66;border-radius:999px;padding:6px 12px;font-size:14px;text-decoration:none;white-space:nowrap}
+.others h3{margin:22px 0 8px;font-size:17px}.chips{display:flex;flex-wrap:wrap;gap:8px}.chips a{background:#fff;border-radius:999px;padding:8px 14px;text-decoration:none;color:var(--ink);font-size:15px;box-shadow:0 1px 3px #0001}.chips a b{color:var(--navy2);margin-right:4px}
+footer{color:var(--mut);font-size:13px;text-align:center;padding:24px 16px}a{color:var(--navy2)}</style></head><body>
+<header><a href=".././"><img src="../img/logo.png" alt="千一工坊"></a><b>Q 版艦艇圖鑑・組裝教學</b><a class="hb" href="../">☰ 全部艦艇</a></header><main><a class="back" href="../">← 回艦艇列表</a><h1>LCC-1</h1><p class="sub">高雄艦・兩棲指揮艦・零件 9 件</p><img class="hero" src="../img/lcc1_hero.jpg" alt="高雄艦"><div class="tip">組裝順序：照 A → B → C 袋依序拆開。輕推艏門往下，跳板就會放下。</div><div class="step"><h2><span>01</span>A 袋｜貨櫃、雷達塔裝上</h2><img src="../img/lcc1_step1.jpg" alt="A 袋｜貨櫃、雷達塔裝上" loading="lazy"></div><div class="step"><h2><span>02</span>B 袋｜上層結構卡上</h2><img src="../img/lcc1_step2.jpg" alt="B 袋｜上層結構卡上" loading="lazy"></div><div class="step"><h2><span>03</span>C 袋｜小艇、前桅裝上</h2><img src="../img/lcc1_step3.jpg" alt="C 袋｜小艇、前桅裝上" loading="lazy"></div><div class="warn"><h3>注意事項</h3><ul><li>收藏模型・非玩具・14 歲以上</li><li>含小零件，請勿讓幼兒接觸，以免誤食</li><li>細件易斷，組裝時請輕壓，不要硬扳</li><li>PLA 怕熱，勿放高溫車內或陽光直射（超過 50°C 會變形）</li><li>3D 列印手工製品，表面細微層紋屬正常現象</li><li>非官方商品，與中華民國海軍無關</li></ul></div><div class="others"><h3>還有買其他艦艇？直接切換</h3><div class="chips"><a href="../lcm/"><b>LCM</b>機械化登陸艇</a><a href="../lcu/"><b>LCU</b>通用登陸艇</a><a href="../aoe530/"><b>AOE-530</b>武夷艦</a><a href="../aoe532/"><b>AOE-532</b>磐石艦</a><a href="../pfg1101/"><b>PFG-1101</b>成功艦</a><a href="../pfg1206/"><b>PFG-1206</b>迪化艦</a><a href="../pgg625/"><b>PGG-625</b>安江艦</a><a href="../lst231/"><b>LST-231</b>中業艦</a></div></div><p><a class="back" href="../">← 回艦艇列表</a></p></main>
 <footer>零件有缺或斷掉，拍照私訊 IG <a href="https://www.instagram.com/qianyi.minis/">@qianyi.minis</a>，免費補寄<br>© 千一工坊 QIANYI MINIS</footer></body></html>

diff --git a/lst231/index.html b/lst231/index.html
@@ -8,6 +8,10 @@ main{max-width:720px;margin:0 auto;padding:16px}h1{margin:8px 0 0;font-size:30px
 .step img{width:100%;display:block}.tip{background:#fff;border-left:4px solid var(--gold);border-radius:8px;padding:10px 14px;margin:14px 0}
 .warn{background:#fff;border-radius:12px;padding:12px 16px;margin:18px 0}.warn h3{margin:0 0 6px;font-size:16px;color:#a8322a}.warn li{margin:2px 0}
 .grid{display:grid;grid-template-columns:repeat(auto-fill,minmax(150px,1fr));gap:12px}.grid a{display:block;background:#fff;border-radius:10px;padding:8px;text-decoration:none;color:var(--ink);text-align:center}
-.grid img{width:100%}.grid b{display:block;font-size:17px}footer{color:var(--mut);font-size:13px;text-align:center;padding:24px 16px}a{color:var(--navy2)}</style></head><body>
-<header><a href=".././"><img src="../img/logo.png" alt="千一工坊"></a><b>Q 版艦艇圖鑑・組裝教學</b></header><main><h1>LST-231</h1><p class="sub">中業艦・戰車登陸艦・零件 11 件</p><img class="hero" src="../img/lst231_hero.jpg" alt="中業艦"><div class="tip">組裝順序：照 A → B → C 袋依序拆開。輕推艏門往下，跳板就會放下。</div><div class="step"><h2><span>01</span>A 袋｜艉部上層卡上</h2><img src="../img/lst231_step1.jpg" alt="A 袋｜艉部上層卡上" loading="lazy"></div><div class="step"><h2><span>02</span>B 袋｜三座砲盆裝上</h2><img src="../img/lst231_step2.jpg" alt="B 袋｜三座砲盆裝上" loading="lazy"></div><div class="step"><h2><span>03</span>C 袋｜小艇、桅杆裝上</h2><img src="../img/lst231_step3.jpg" alt="C 袋｜小艇、桅杆裝上" loading="lazy"></div><div class="warn"><h3>注意事項</h3><ul><li>收藏模型・非玩具・14 歲以上</li><li>含小零件，請勿讓幼兒接觸，以免誤食</li><li>細件易斷，組裝時請輕壓，不要硬扳</li><li>PLA 怕熱，勿放高溫車內或陽光直射（超過 50°C 會變形）</li><li>3D 列印手工製品，表面細微層紋屬正常現象</li><li>非官方商品，與中華民國海軍無關</li></ul></div></main>
+.grid img{width:100%}.grid b{display:block;font-size:17px}
+.back{display:inline-flex;align-items:center;gap:6px;background:#fff;color:var(--navy);border:1.5px solid var(--navy);border-radius:999px;padding:8px 16px;font-size:16px;font-weight:600;text-decoration:none;margin:4px 0 8px}
+header .hb{margin-left:auto;color:#fff;border:1px solid #ffffff66;border-radius:999px;padding:6px 12px;font-size:14px;text-decoration:none;white-space:nowrap}
+.others h3{margin:22px 0 8px;font-size:17px}.chips{display:flex;flex-wrap:wrap;gap:8px}.chips a{background:#fff;border-radius:999px;padding:8px 14px;text-decoration:none;color:var(--ink);font-size:15px;box-shadow:0 1px 3px #0001}.chips a b{color:var(--navy2);margin-right:4px}
+footer{color:var(--mut);font-size:13px;text-align:center;padding:24px 16px}a{color:var(--navy2)}</style></head><body>
+<header><a href=".././"><img src="../img/logo.png" alt="千一工坊"></a><b>Q 版艦艇圖鑑・組裝教學</b><a class="hb" href="../">☰ 全部艦艇</a></header><main><a class="back" href="../">← 回艦艇列表</a><h1>LST-231</h1><p class="sub">中業艦・戰車登陸艦・零件 11 件</p><img class="hero" src="../img/lst231_hero.jpg" alt="中業艦"><div class="tip">組裝順序：照 A → B → C 袋依序拆開。輕推艏門往下，跳板就會放下。</div><div class="step"><h2><span>01</span>A 袋｜艉部上層卡上</h2><img src="../img/lst231_step1.jpg" alt="A 袋｜艉部上層卡上" loading="lazy"></div><div class="step"><h2><span>02</span>B 袋｜三座砲盆裝上</h2><img src="../img/lst231_step2.jpg" alt="B 袋｜三座砲盆裝上" loading="lazy"></div><div class="step"><h2><span>03</span>C 袋｜小艇、桅杆裝上</h2><img src="../img/lst231_step3.jpg" alt="C 袋｜小艇、桅杆裝上" loading="lazy"></div><div class="warn"><h3>注意事項</h3><ul><li>收藏模型・非玩具・14 歲以上</li><li>含小零件，請勿讓幼兒接觸，以免誤食</li><li>細件易斷，組裝時請輕壓，不要硬扳</li><li>PLA 怕熱，勿放高溫車內或陽光直射（超過 50°C 會變形）</li><li>3D 列印手工製品，表面細微層紋屬正常現象</li><li>非官方商品，與中華民國海軍無關</li></ul></div><div class="others"><h3>還有買其他艦艇？直接切換</h3><div class="chips"><a href="../lcm/"><b>LCM</b>機械化登陸艇</a><a href="../lcu/"><b>LCU</b>通用登陸艇</a><a href="../aoe530/"><b>AOE-530</b>武夷艦</a><a href="../aoe532/"><b>AOE-532</b>磐石艦</a><a href="../pfg1101/"><b>PFG-1101</b>成功艦</a><a href="../pfg1206/"><b>PFG-1206</b>迪化艦</a><a href="../pgg625/"><b>PGG-625</b>安江艦</a><a href="../lcc1/"><b>LCC-1</b>高雄艦</a></div></div><p><a class="back" href="../">← 回艦艇列表</a></p></main>
 <footer>零件有缺或斷掉，拍照私訊 IG <a href="https://www.instagram.com/qianyi.minis/">@qianyi.minis</a>，免費補寄<br>© 千一工坊 QIANYI MINIS</footer></body></html>
